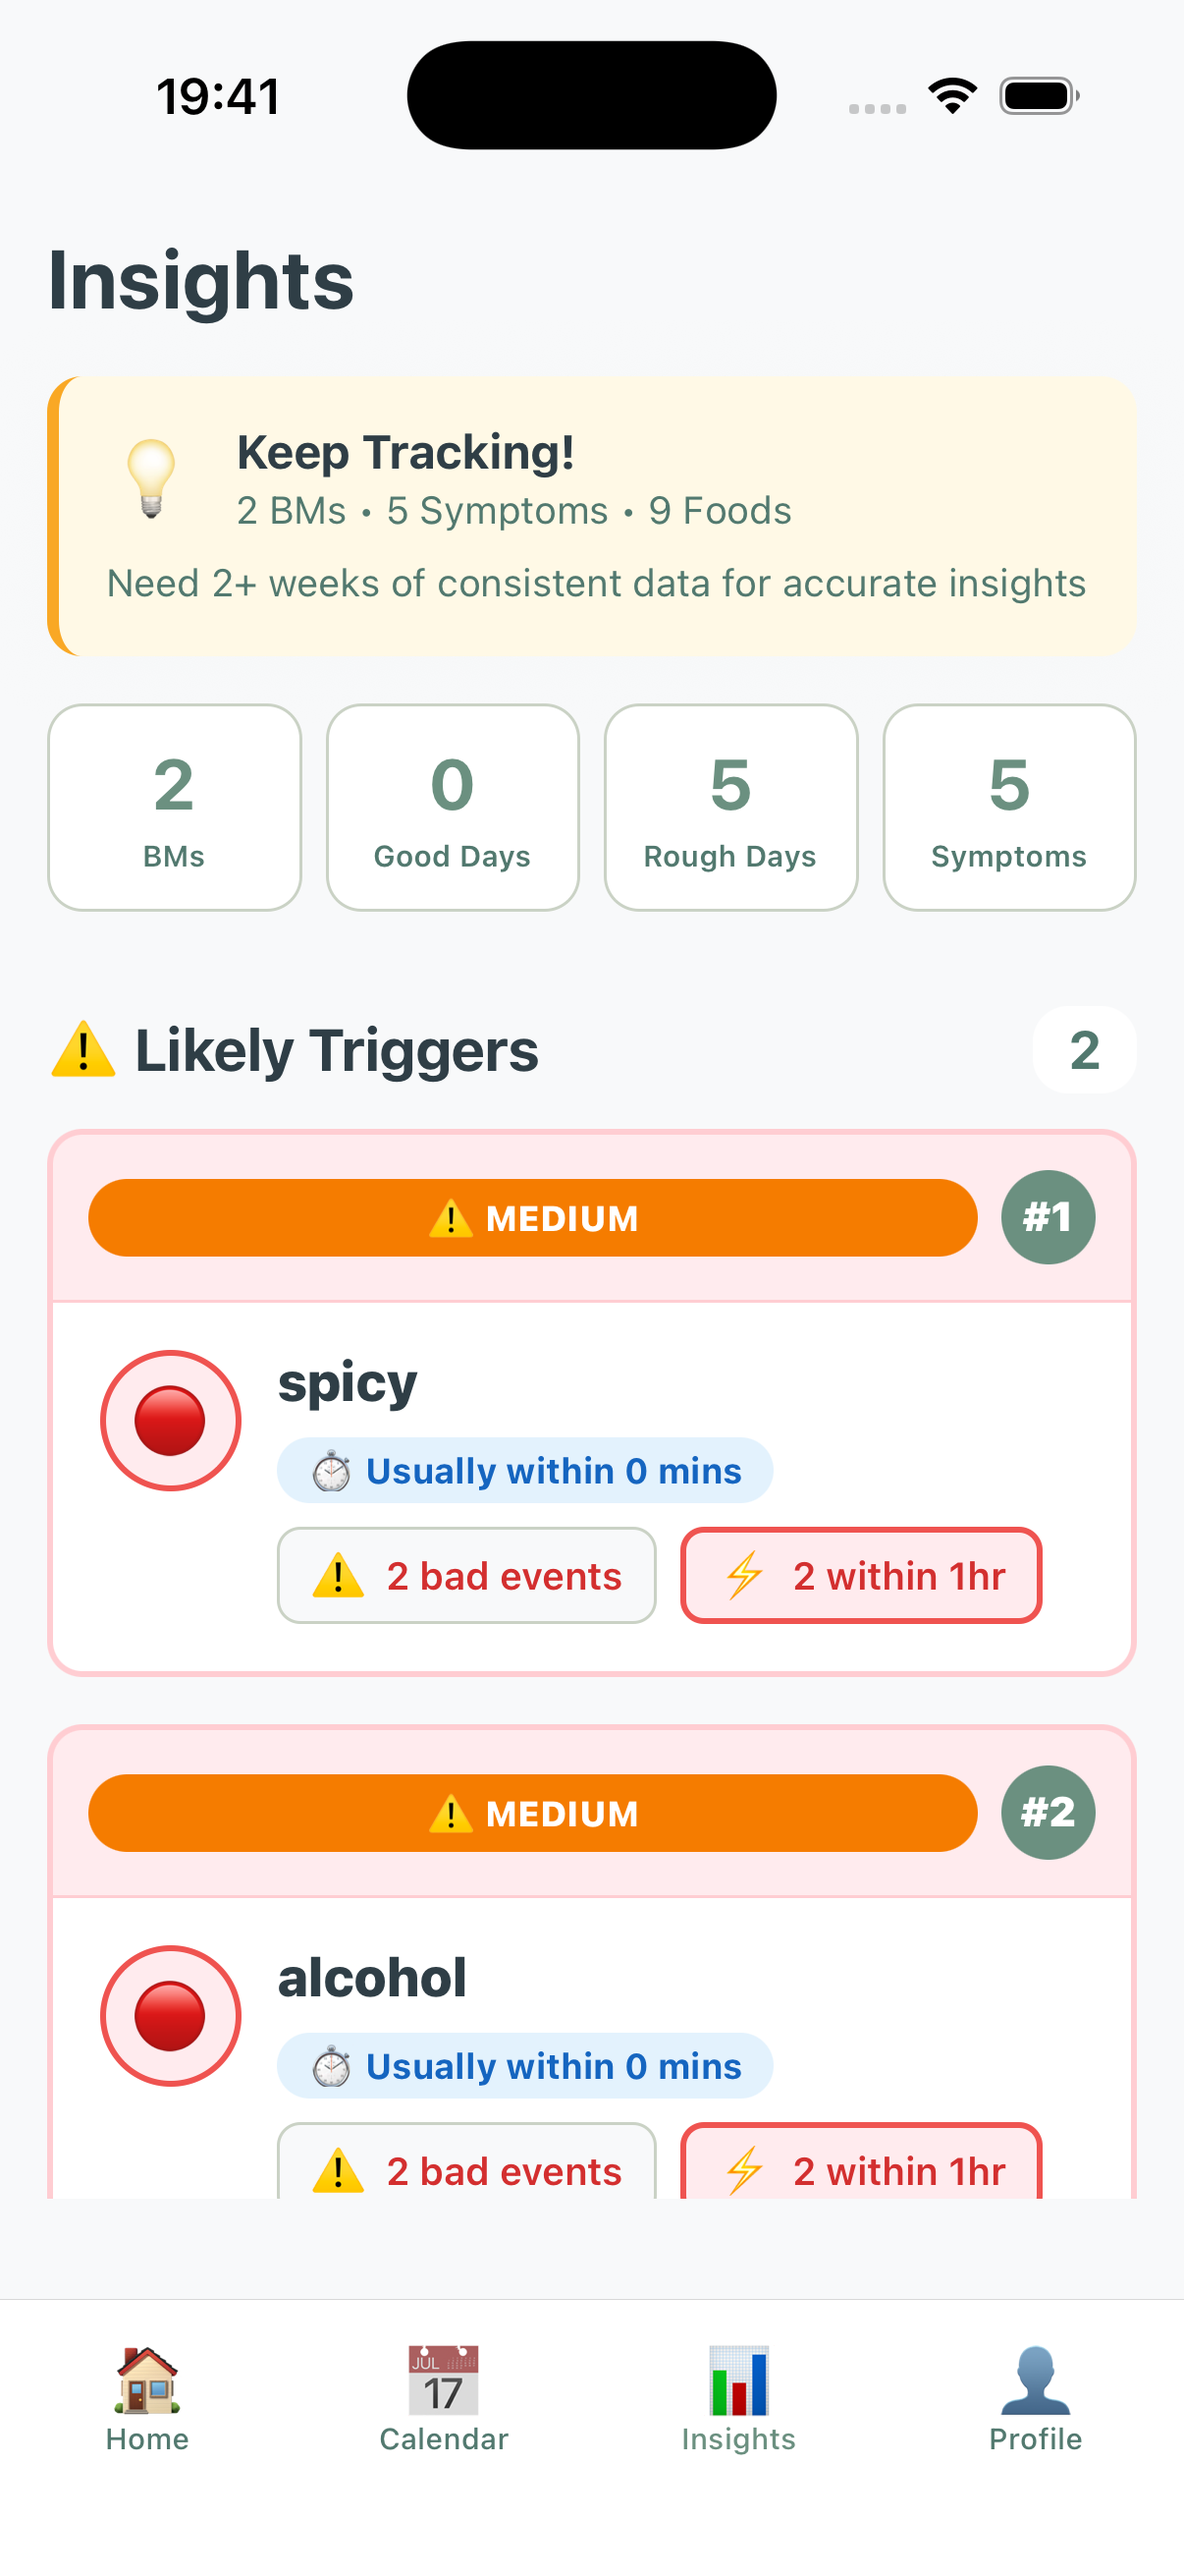
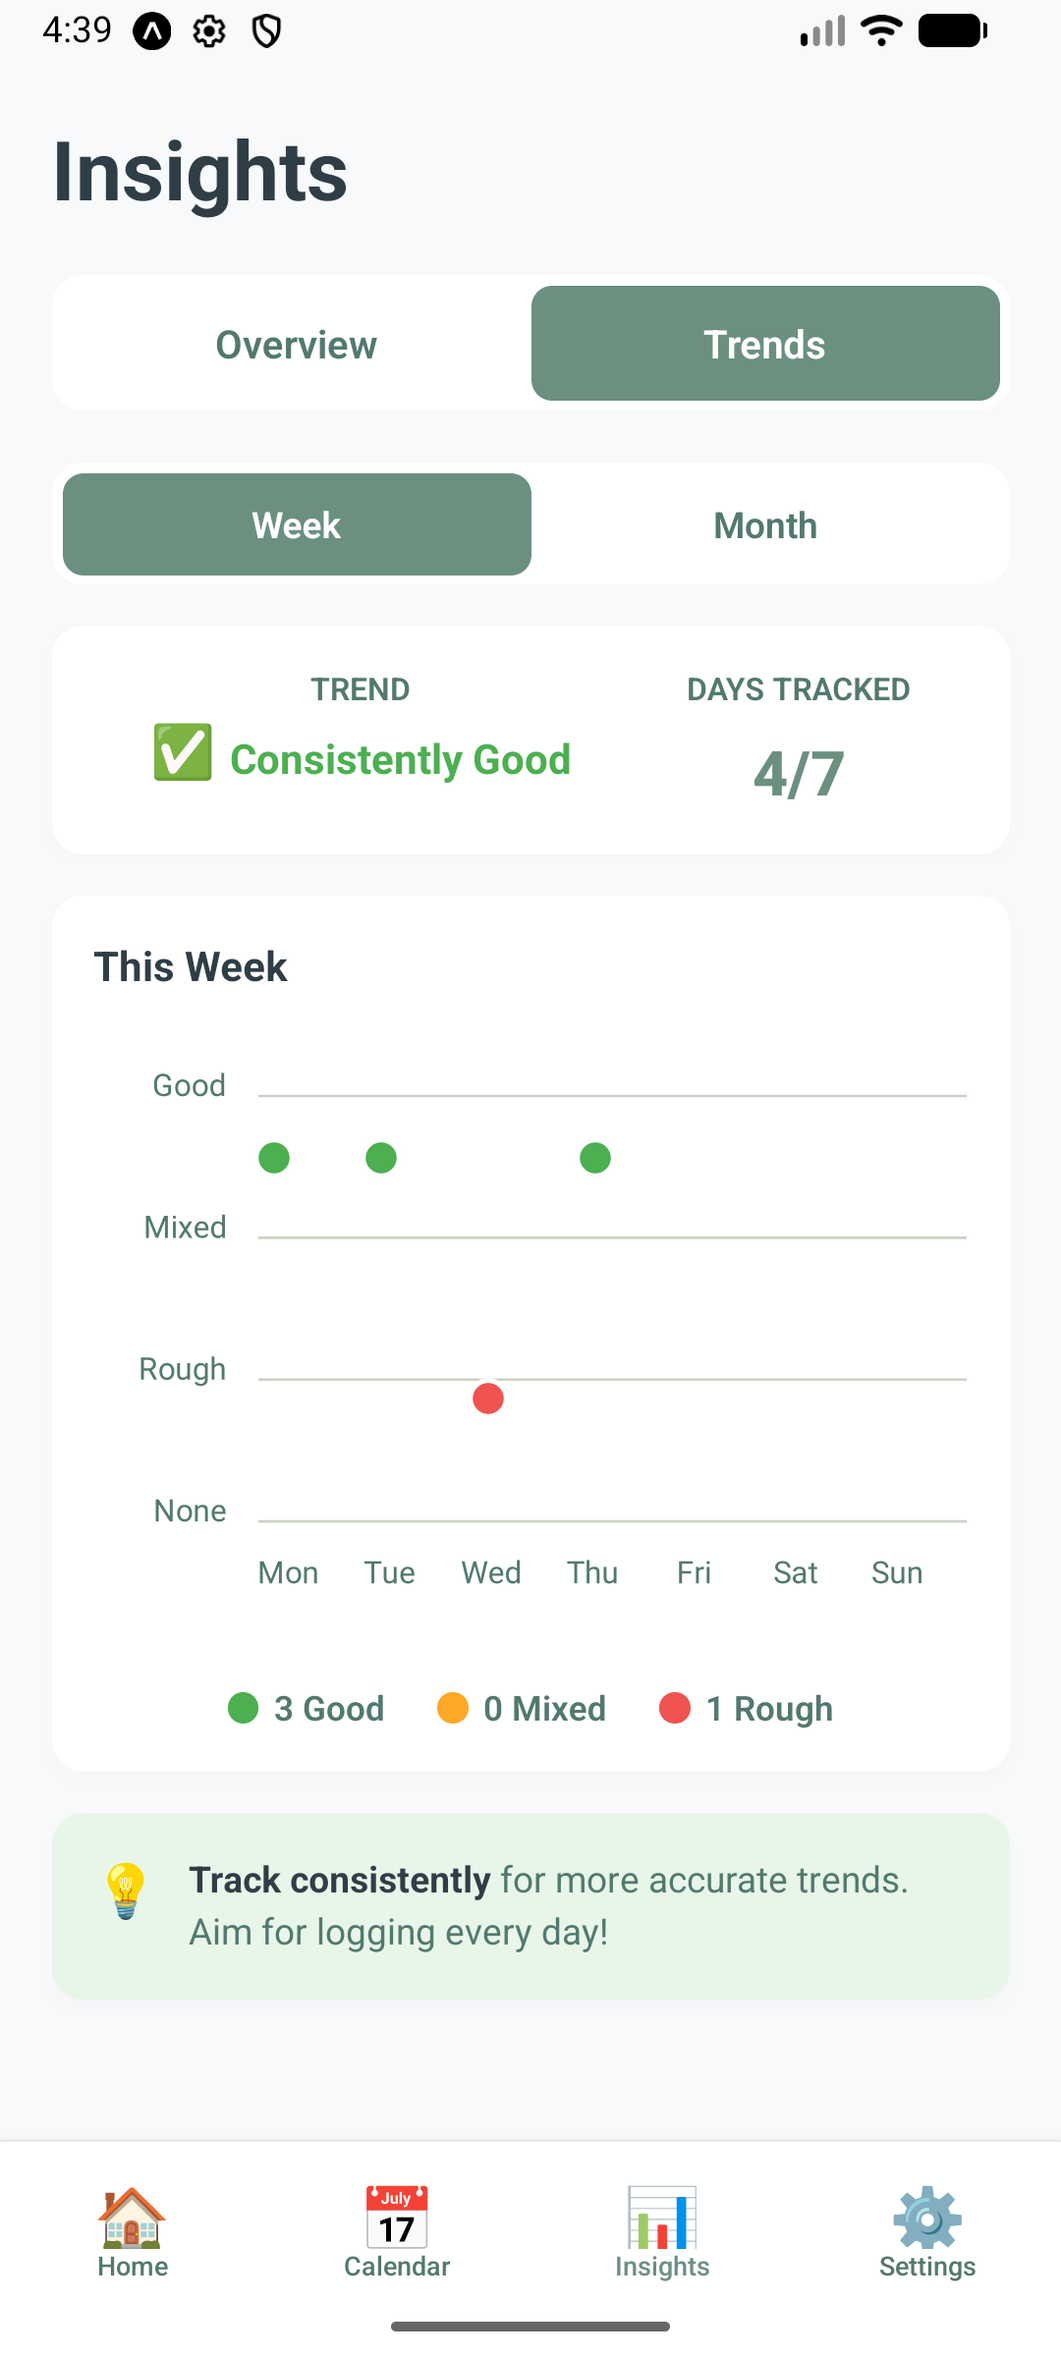
fixes

diff --git a/index.html b/index.html
@@ -26,19 +26,17 @@
         padding: 0 20px;
       }
 
+      /* Logo */
+      .logo {
+        margin-bottom: 80px;
+        max-width: 320px;
+      }
+
       /* Hero Section */
       .hero {
         background: linear-gradient(180deg, #eaf4f4 0%, #f8f9fa 100%);
         padding: 120px 20px 80px;
         text-align: center;
-      }
-
-      .brand-name {
-        font-size: 1.5rem;
-        font-weight: 700;
-        color: #6b9080;
-        margin-bottom: 30px;
-        letter-spacing: 0.5px;
       }
 
       .hero h1 {
@@ -100,7 +98,7 @@
 
       .problems {
         display: grid;
-        grid-template-columns: repeat(auto-fit, minmax(280px, 1fr));
+        grid-template-columns: repeat(auto-fit, minmax(200px, 1fr));
         gap: 30px;
         max-width: 1000px;
         margin: 0 auto;
@@ -267,12 +265,11 @@
         border-radius: 8px;
         background: white;
         color: #2f3e46;
-        transition: border 0.2s ease;
       }
 
       .form-group input:focus {
         outline: none;
-        border: 2px solid #6b9080;
+        border: 1px solid #6b9080;
       }
 
       .form-group input::placeholder {
@@ -343,7 +340,7 @@
     <!-- Hero Section -->
     <section class="hero">
       <div class="container">
-        <div class="brand-name">Hussh</div>
+        <img class="logo" src="./logo.svg" alt="logo" />
         <h1>Finally understand what triggers your IBS</h1>
         <p>
           Track symptoms, meals, and stress in seconds. Get personalized
@@ -466,7 +463,7 @@
     <!-- Footer -->
     <footer class="footer">
       <div class="container">
-        <p>Built by Joe Consterdine | joeconsterdine@gmail.com</p>
+        <p>Built by Joe Consterdine | apphussh@gmail.com</p>
       </div>
     </footer>
   </body>
